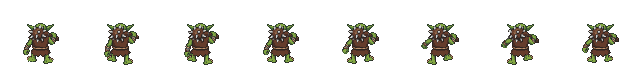
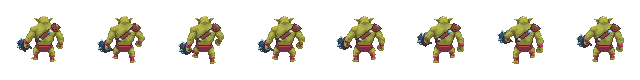
Goblin da Clava refeito com o original do pacote de referencia
O goblin do The Depths of the Mountain (barrigudo, verde-oliva, tanga rosa e
clava cravejada) foi a referencia do PixelLab; animado no skeleton-v3 de
lado, de frente e de costas. Fora os quadros em que a clava deforma ou
aparece duas vezes. Um pouco maior (38 pixels por unidade).

Claude-Session: https://claude.ai/code/session_01TtQZrh7QHjg7ZznbLxTsw5

diff --git a/Ferramentas/Personagens/inimigo_de_cima.py b/Ferramentas/Personagens/inimigo_de_cima.py
@@ -36,10 +36,11 @@ RUMOS = {"east": "", "south": "_Frente", "north": "_Costas"}
 
 # Quadros escolhidos, por inimigo (o que o PixelLab estragou fica de fora).
 ESCOLHAS = {
-    # Goblin: no golpe de lado a clava some nos quadros 4 e 5 e sai borrada no 0; de frente e de costas o
-    # quadro 4 sai amassado.
-    "GoblinDaClava": {("ataque", "east"): [1, 1, 2, 3, 3, 6], ("ataque", "south"): [0, 1, 2, 3, 5, 5, 6],
-                      ("ataque", "north"): [0, 1, 2, 3, 5, 5, 6]},
+    # Goblin (1.22.2, refeito com o original do pacote The Depths of the Mountain de referencia): no golpe de
+    # lado a clava vai pra tras no quadro 4; de frente ela deforma nos quadros 0, 1 e 3; de costas e na morte
+    # o PixelLab desenha uma clava a mais (quadro 3 do golpe, 2 e 3 da morte). O golpe fica no quadro 4.
+    "GoblinDaClava": {("ataque", "east"): [0, 1, 2, 3, 5, 5, 6], ("ataque", "south"): [6, 2, 2, 2, 4, 5, 6],
+                      ("ataque", "north"): [6, 1, 2, 2, 4, 5, 6], ("morte", "east"): [0, 1, 1, 4, 5, 6, 6]},
     # Esqueleto (refeito no plano pago, tudo no skeleton-v3): no golpe de lado a espada some em dois quadros
     # (ficam os que tem ela: levanta e desce, com o golpe no quadro 4 como nos outros rumos), e no golpe de
     # frente o quadro 0 sai transparente e o 5 borrado.
